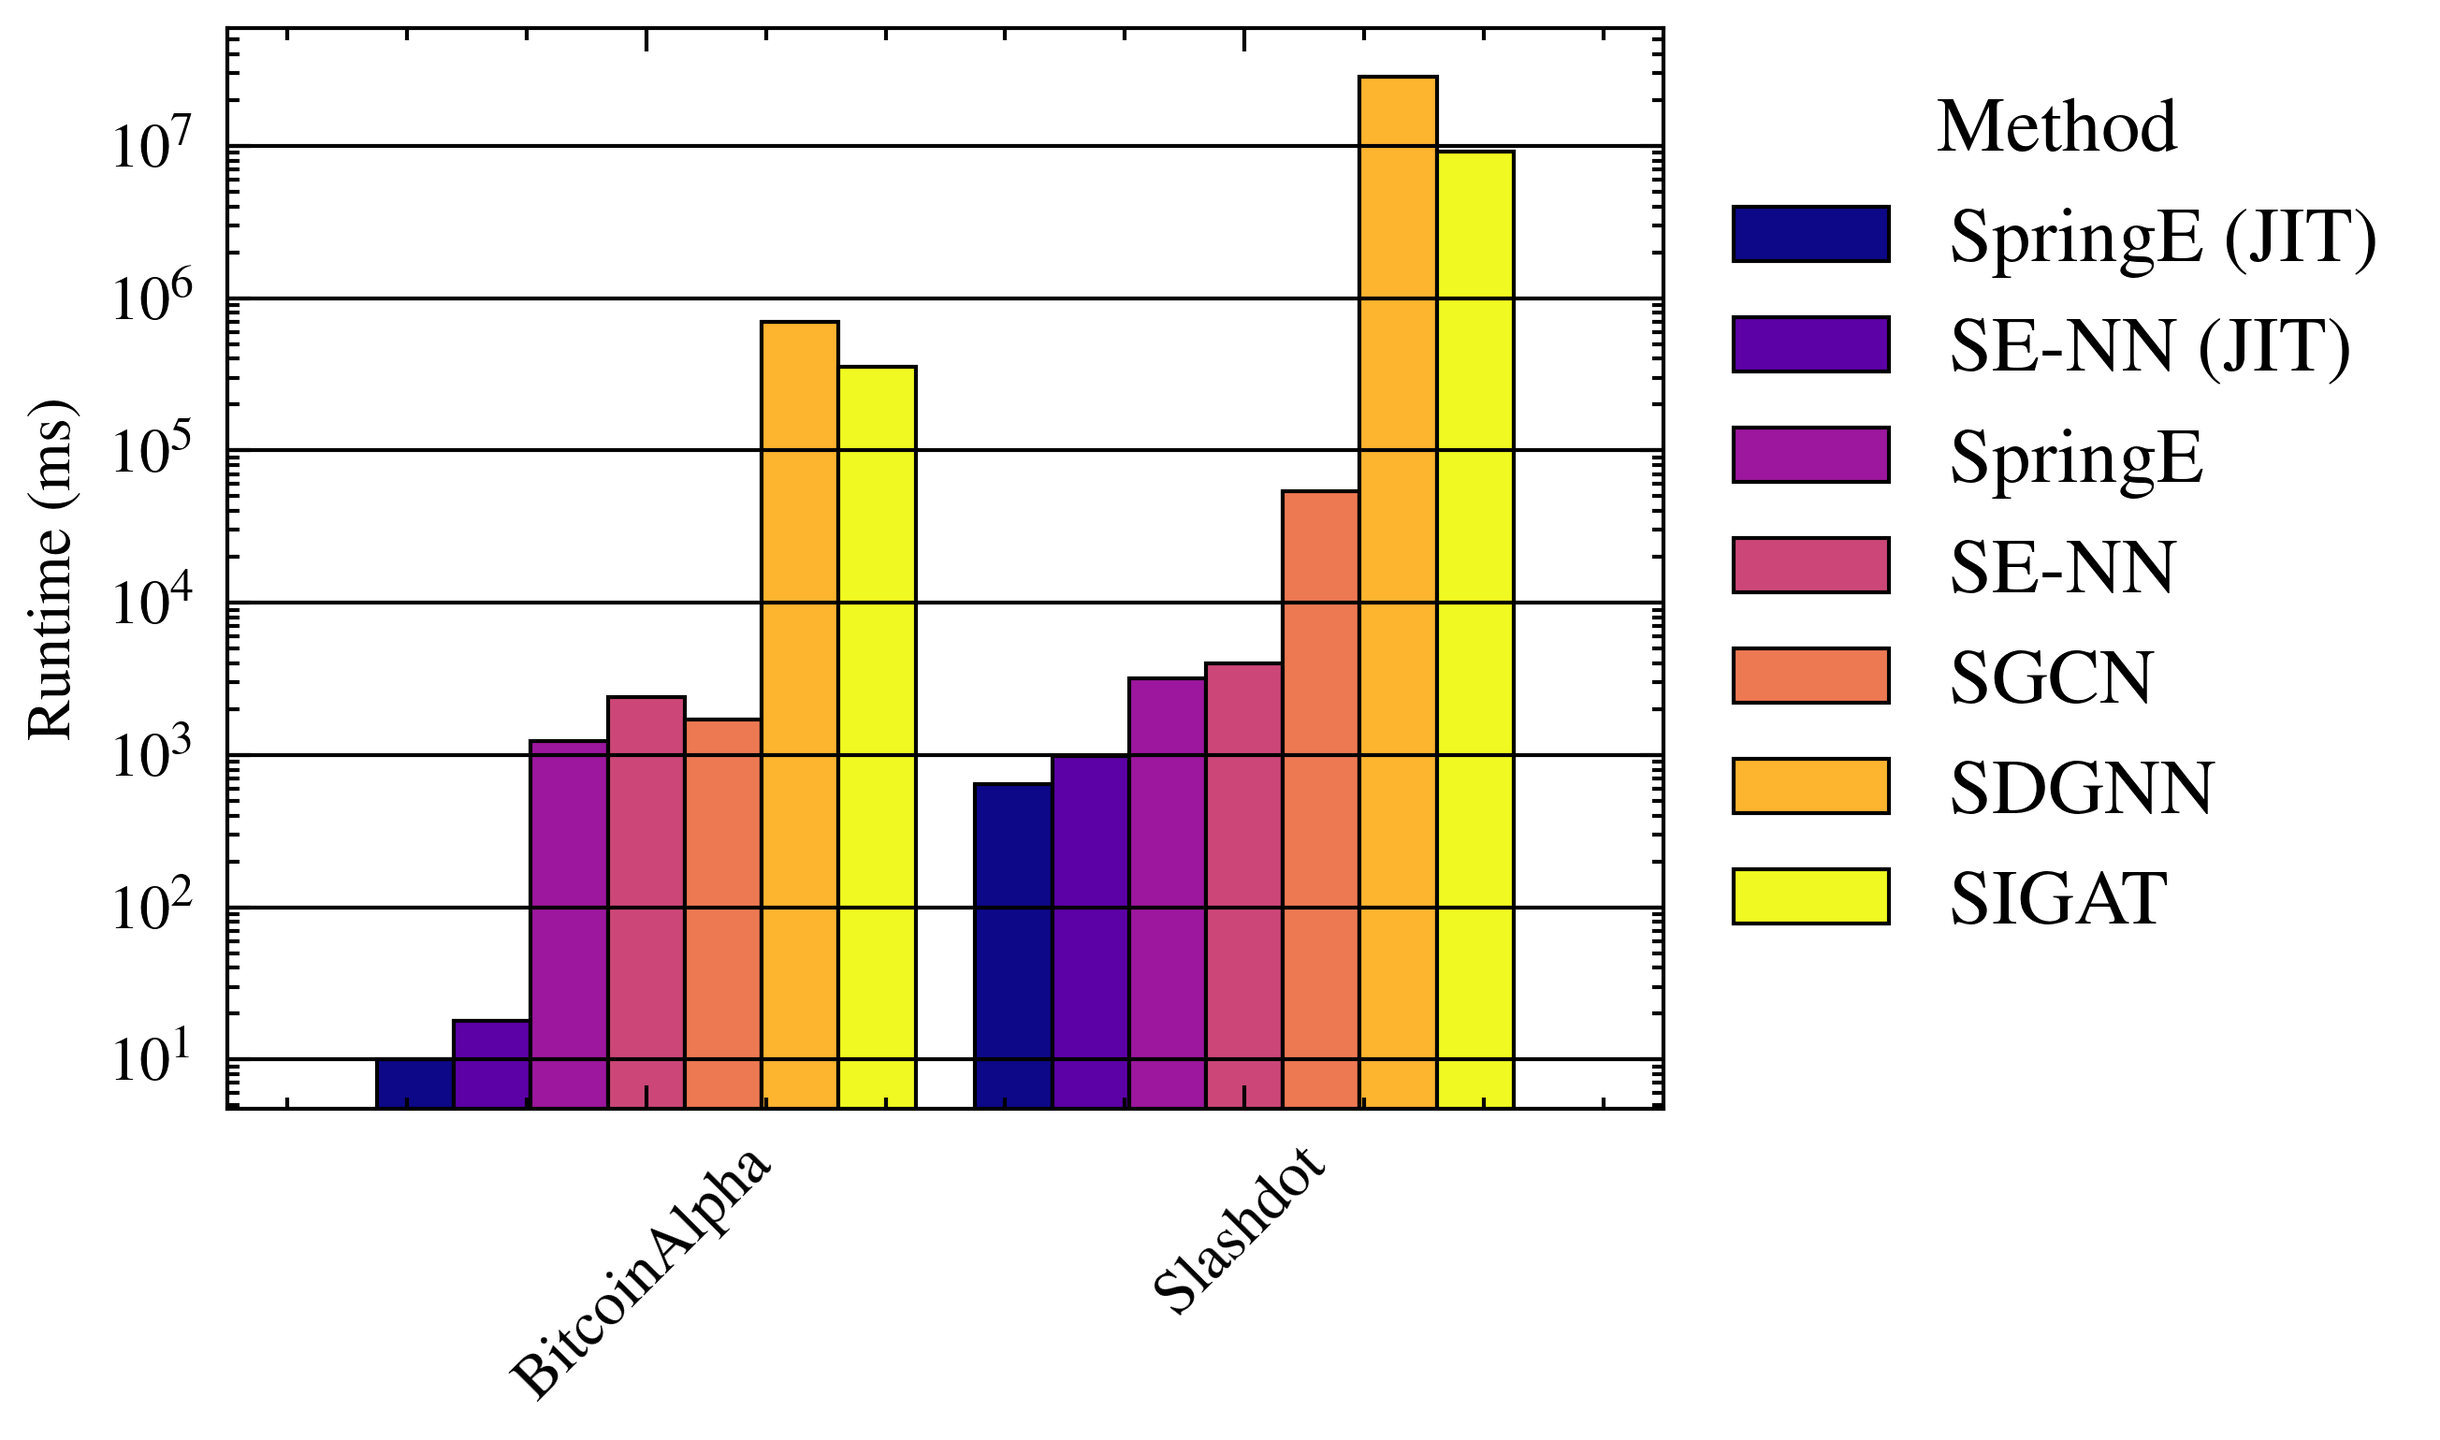
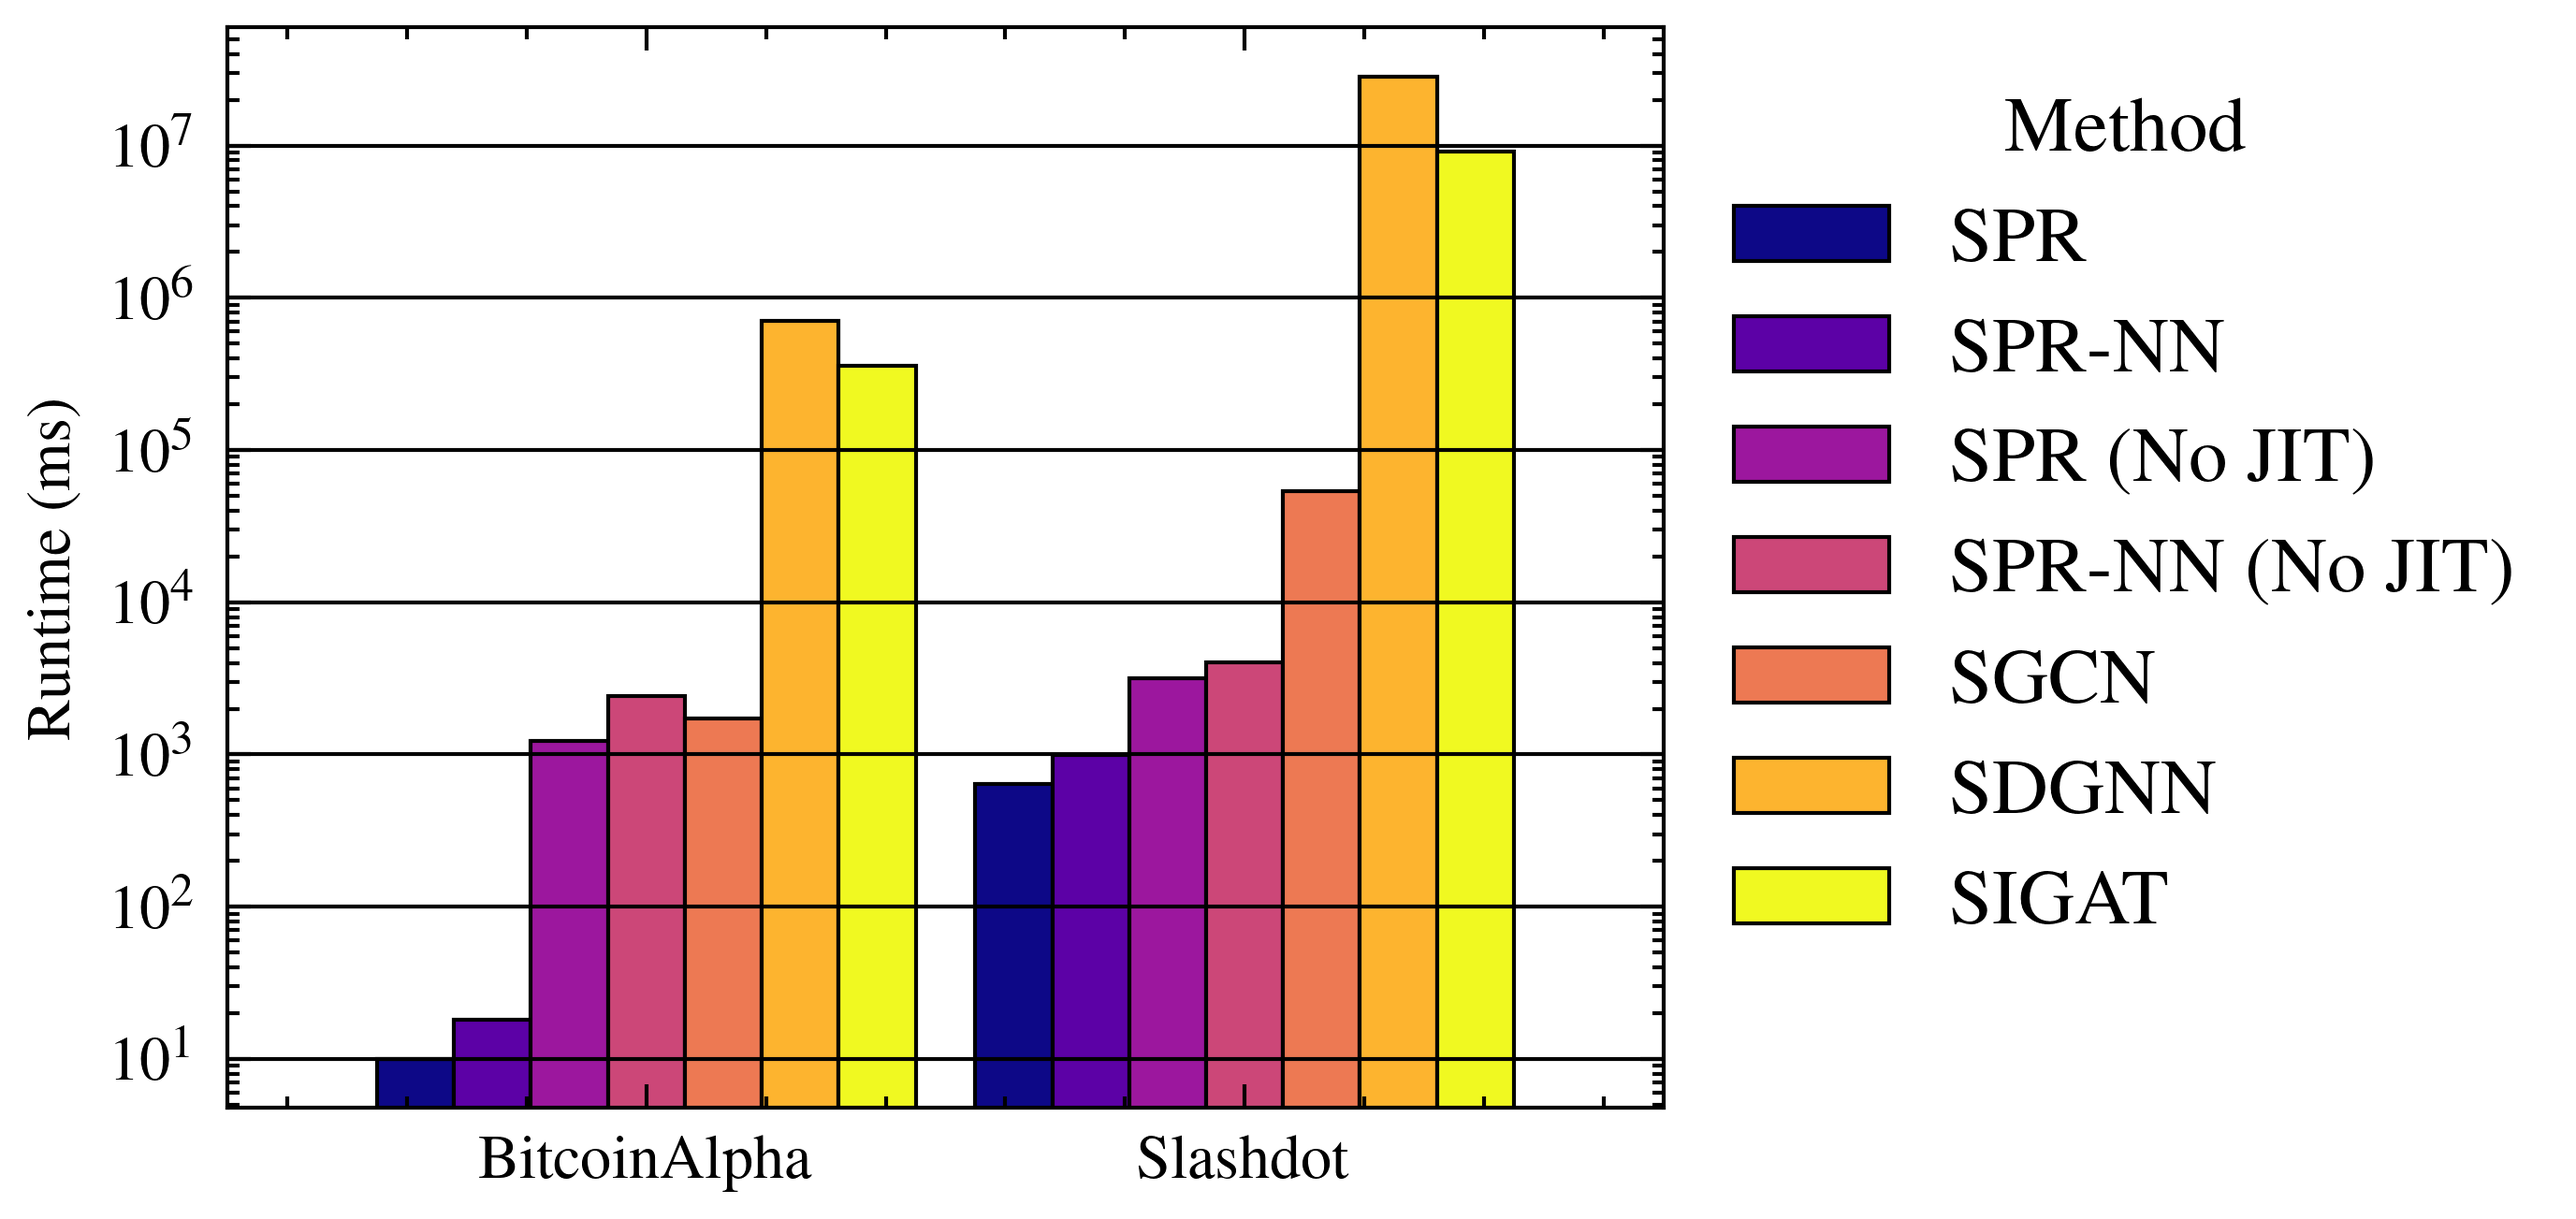
new speedup plots

diff --git a/plots/speedup.py b/plots/speedup.py
@@ -40,6 +40,6 @@ ax.set_ylabel('Runtime (ms)')
 ax.legend(title='Method', loc='upper left', bbox_to_anchor=(1, 1), fontsize=10, title_fontsize=10, facecolor='white', framealpha=1)
 
 # tilt x labels
-plt.xticks(rotation=45)
+plt.xticks(rotation=0)
 
 plt.savefig('plots/performance.png')
